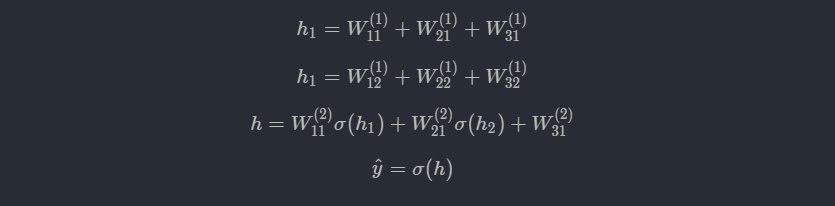
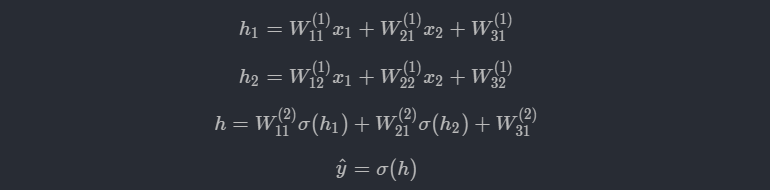
update

diff --git a/deeplearning/README.md b/deeplearning/README.md
@@ -269,19 +269,15 @@ $$w^{(k)}=w^{(k)}-\alpha\frac{\partial E}{\partial w^{(k)}}$$
 
 我们可以直接书写出每个h的表达式:
 
-$$h_1=W^{(1)}_{11}x_1+W^{(1)}_{21}x_2+W^{(1)}_{31}$$
-
-$$h_2=W^{(1)}_{12}x_1+W^{(1)}_{22}x_2+W^{(1)}_{32}$$
-
-$$h=W^{(2)}_{11}\sigma(h_1)+W^{(2)}_{21}\sigma(h_2)+W^{(2)}_{31}$$
-
-$$\hat{y}=\sigma(h)$$
+![11](images/11.png)
 
 我们需要计算$\frac{\partial E}{\partial W^{(k)}_{ij}}$.
 
 单独计算对$W^{(1)}_{11}$的偏导数(使用链式求导法则):
 
 $$\frac{\partial E}{\partial W^{(1)}_{11}}=\frac{\partial E}{\partial \hat{y}}\frac{\partial \hat{y}}{\partial h}\frac{\partial h}{\partial h_1}\frac{\partial h_1}{\partial W_{11}^{(1)}}$$
+
+这里的链式求导非常有意思,它实际上反映了一个"传播误差影响"的过程.
 
 因为篇幅原因,具体的求导我这里不再演算了(直接通过上面给的表达式求导即可),详情可以看西瓜书.
 

diff --git a/deeplearning/formula.md b/deeplearning/formula.md
@@ -65,4 +65,3 @@ $$h_1=W^{(1)}_{12}x_1+W^{(1)}_{22}x_2+W^{(1)}_{32}$$
 $$h=W^{(2)}_{11}\sigma(h_1)+W^{(2)}_{21}\sigma(h_2)+W^{(2)}_{31}$$
 
 $$\hat{y}=\sigma(h)$$
-
